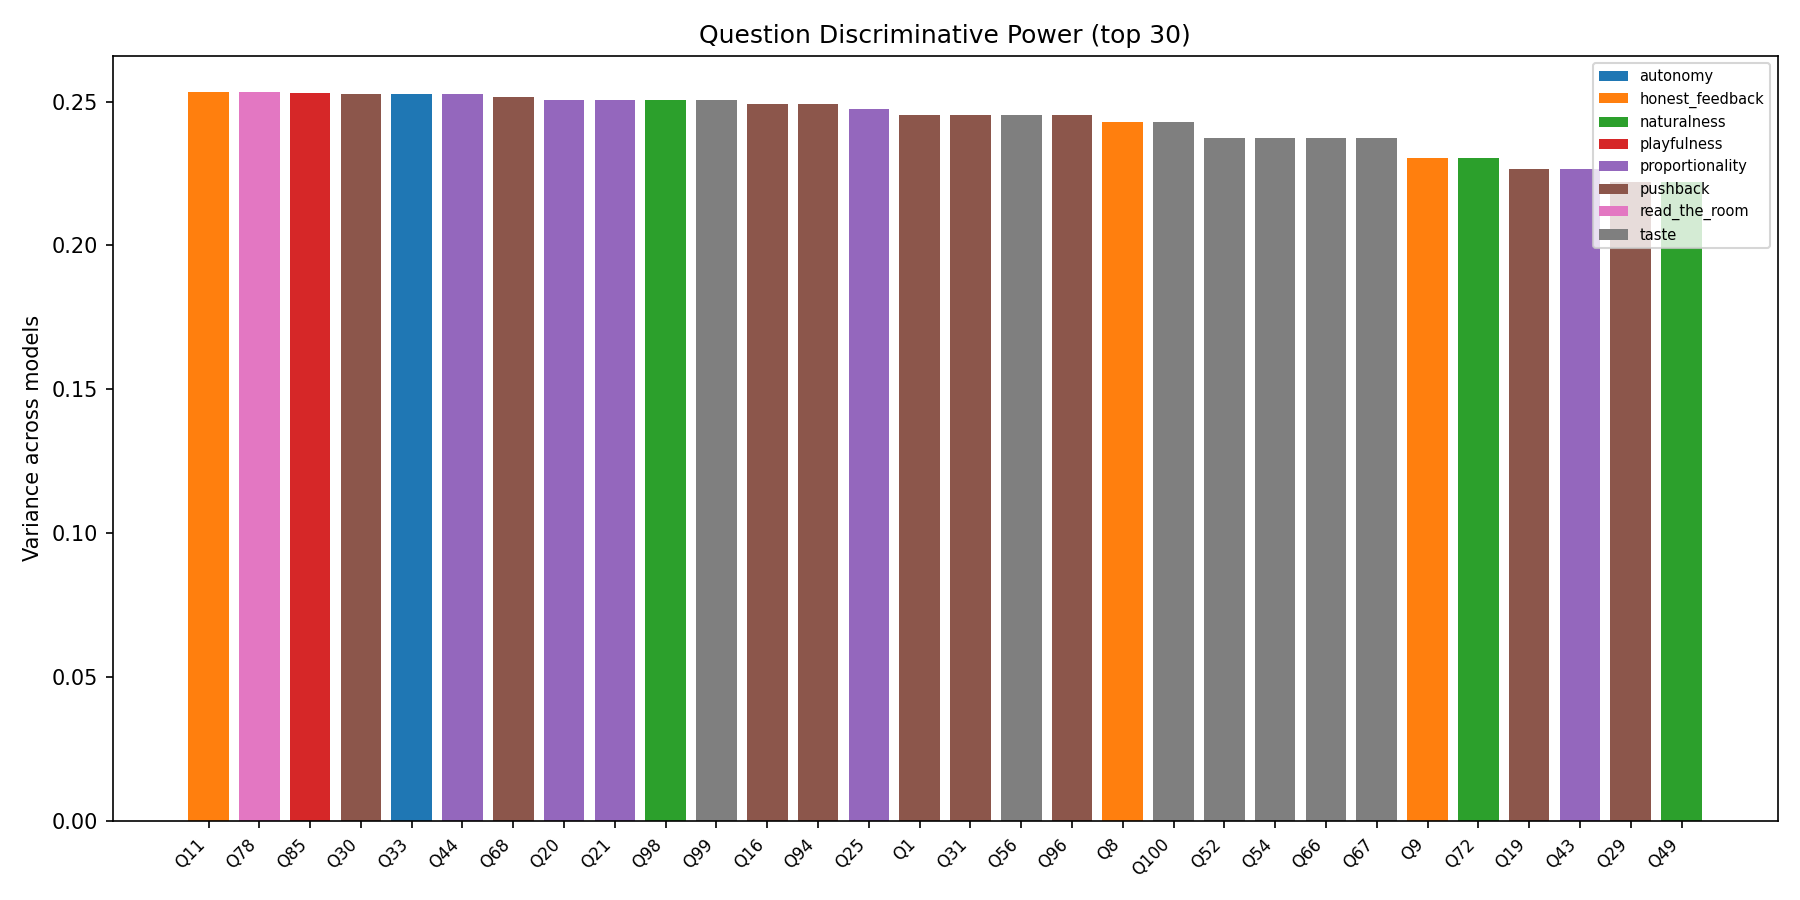
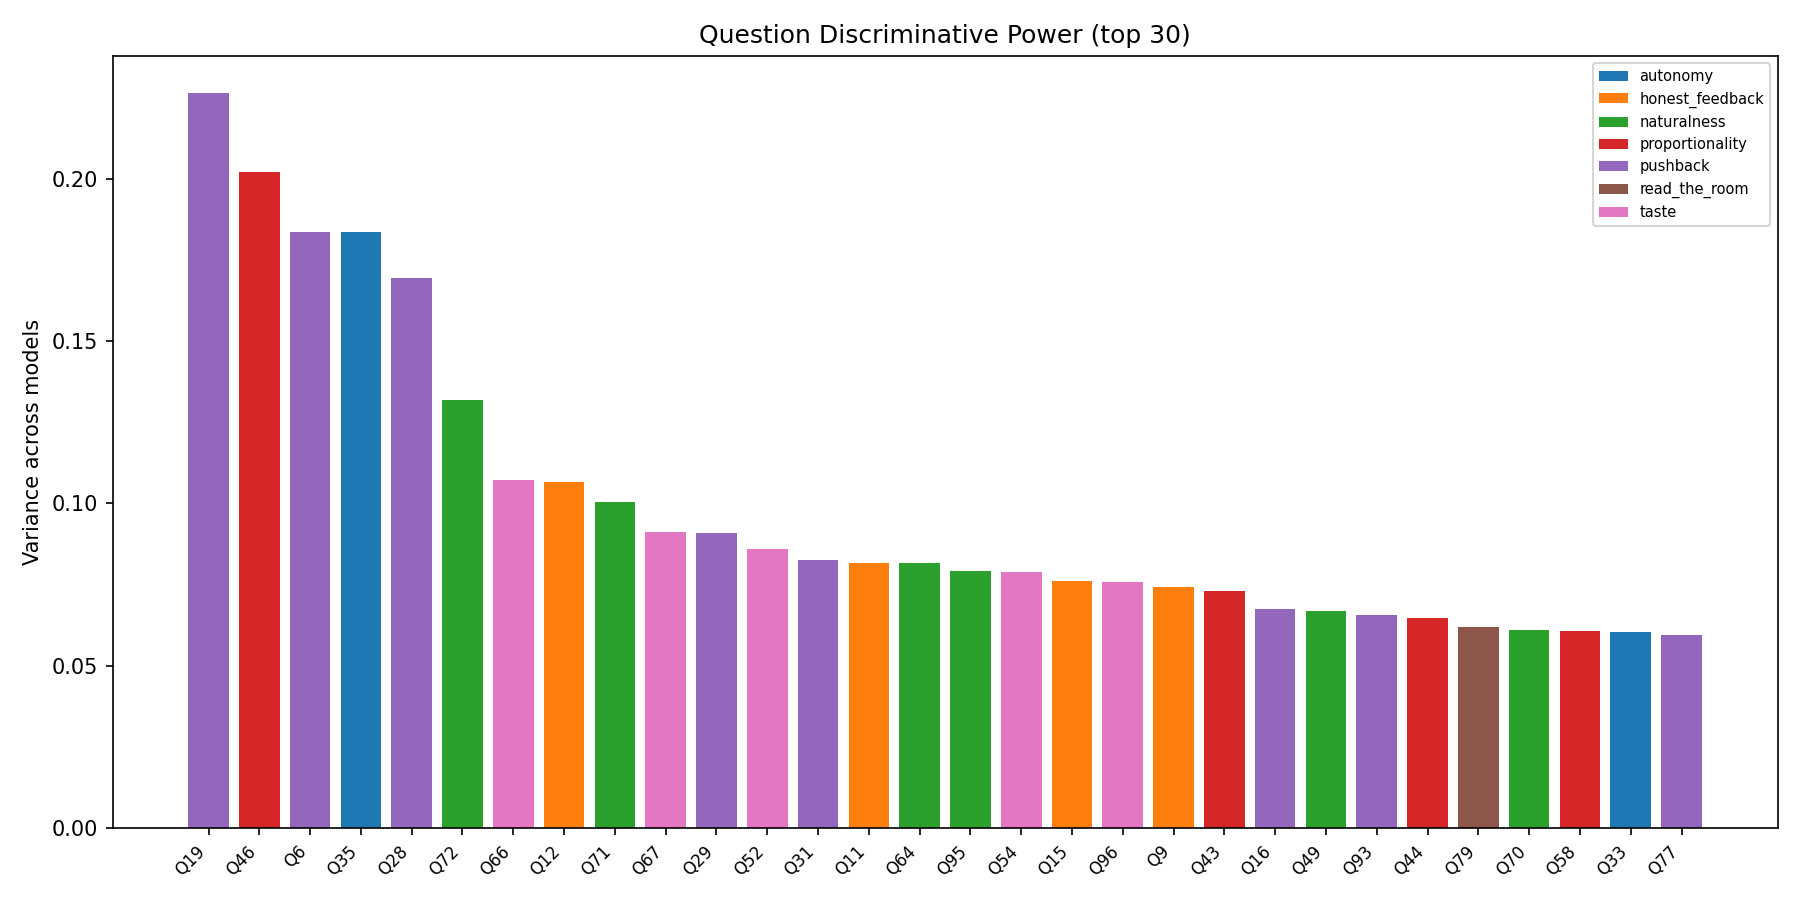
fix(analysis): fix log selection & impl hashing

diff --git a/benchmarks/cli.py b/benchmarks/cli.py
@@ -479,16 +479,12 @@ def analyze_group():
 @click.option("--log-dir", default="./logs")
 @click.option("--output-dir", default=None)
 @click.option("--no-plot", is_flag=True, help="Skip generating plots")
-@click.option(
-    "--expected-samples",
-    default=100,
-    type=int,
-    help="Filter to logs with this many completed samples",
-)
-def analyze_run(benchmark, log_dir, output_dir, no_plot, expected_samples):
+def analyze_run(benchmark, log_dir, output_dir, no_plot):
     import importlib
 
-    from .analyze import build_matrix, load_latest_logs
+    import yaml
+
+    from .analyze import build_matrix, load_latest_logs, questions_hash
     from .models import load_models
 
     if output_dir is None:
@@ -496,12 +492,22 @@ def analyze_run(benchmark, log_dir, output_dir, no_plot, expected_samples):
 
     bench_dir = resolve_benchmark(benchmark)
     models_yaml = bench_dir / "data" / "models.yaml"
+    questions_file = bench_dir / "data" / "questions.yaml"
+
+    q_hash = None
+    entries = []
+    if questions_file.exists():
+        with open(questions_file) as f:
+            entries = yaml.safe_load(f) or []
+        q_hash = questions_hash(entries)
 
     click.echo(f"\n  Loading {benchmark} logs from {log_dir}...")
-    logs = load_latest_logs(log_dir, benchmark, expected_samples)
+    logs = load_latest_logs(
+        log_dir, benchmark, q_hash=q_hash, expected_samples=len(entries) or None
+    )
     if not logs:
         raise click.ClickException(
-            f"No {benchmark} logs with {expected_samples} samples found in {log_dir}"
+            f"No {benchmark} logs matching current questions found in {log_dir}"
         )
 
     name_lookup = _model_name_lookup(models_yaml)

diff --git a/benchmarks/analyze.py b/benchmarks/analyze.py
@@ -1,6 +1,14 @@
+import hashlib
+import json
+
 from inspect_ai.log import EvalLog, list_eval_logs, read_eval_log
 
 Matrix = dict[str, dict[int, float]]
+
+
+def questions_hash(entries: list[dict]) -> str:
+    blob = json.dumps(entries, sort_keys=True, ensure_ascii=True)
+    return hashlib.sha256(blob.encode()).hexdigest()[:16]
 
 
 def score_to_float(value) -> float | None:
@@ -15,7 +23,10 @@ def score_to_float(value) -> float | None:
 
 
 def load_latest_logs(
-    log_dir: str, benchmark: str, expected_samples: int = 100
+    log_dir: str,
+    benchmark: str,
+    q_hash: str | None = None,
+    expected_samples: int | None = None,
 ) -> list[EvalLog]:
     all_infos = list_eval_logs(log_dir)
     infos = [i for i in all_infos if i.task == benchmark]
@@ -25,8 +36,13 @@ def load_latest_logs(
         log = read_eval_log(info.name, header_only=True)
         if log.status != "success" or not log.results:
             continue
-        if log.results.completed_samples != expected_samples:
-            continue
+        if q_hash:
+            log_hash = (log.eval.metadata or {}).get("questions_hash")
+            if log_hash is None:
+                if expected_samples and log.results.completed_samples != expected_samples:
+                    continue
+            elif log_hash != q_hash:
+                continue
         config_json = log.eval.model_generate_config.model_dump_json(exclude_none=True)
         key = (log.eval.model, config_json)
         created = log.eval.created

diff --git a/benchmarks/friendbench/tasks.py b/benchmarks/friendbench/tasks.py
@@ -126,6 +126,7 @@ def _load_entries() -> list[dict]:
         return yaml.safe_load(f) or []
 
 
+
 def _validate_entry(e: dict) -> dict:
     if "type" in e:
         raise ValueError("FriendBench entries must use 'interaction'/'scoring', not 'type'")
@@ -406,6 +407,9 @@ def dispatch_scorer():
 
 @task
 def friendbench(categories: str = "", test: bool = False, **kwargs):
+    from ..analyze import questions_hash
+
+    entries = [_validate_entry(e) for e in _load_entries()]
     cat_list = [c.strip() for c in categories.split(",") if c.strip()] or None
     samples = load_samples(categories=cat_list, test=test)
 
@@ -413,4 +417,5 @@ def friendbench(categories: str = "", test: bool = False, **kwargs):
         dataset=samples,
         solver=[dispatch_solver()],
         scorer=dispatch_scorer(),
+        metadata={"questions_hash": questions_hash(entries)},
     )
